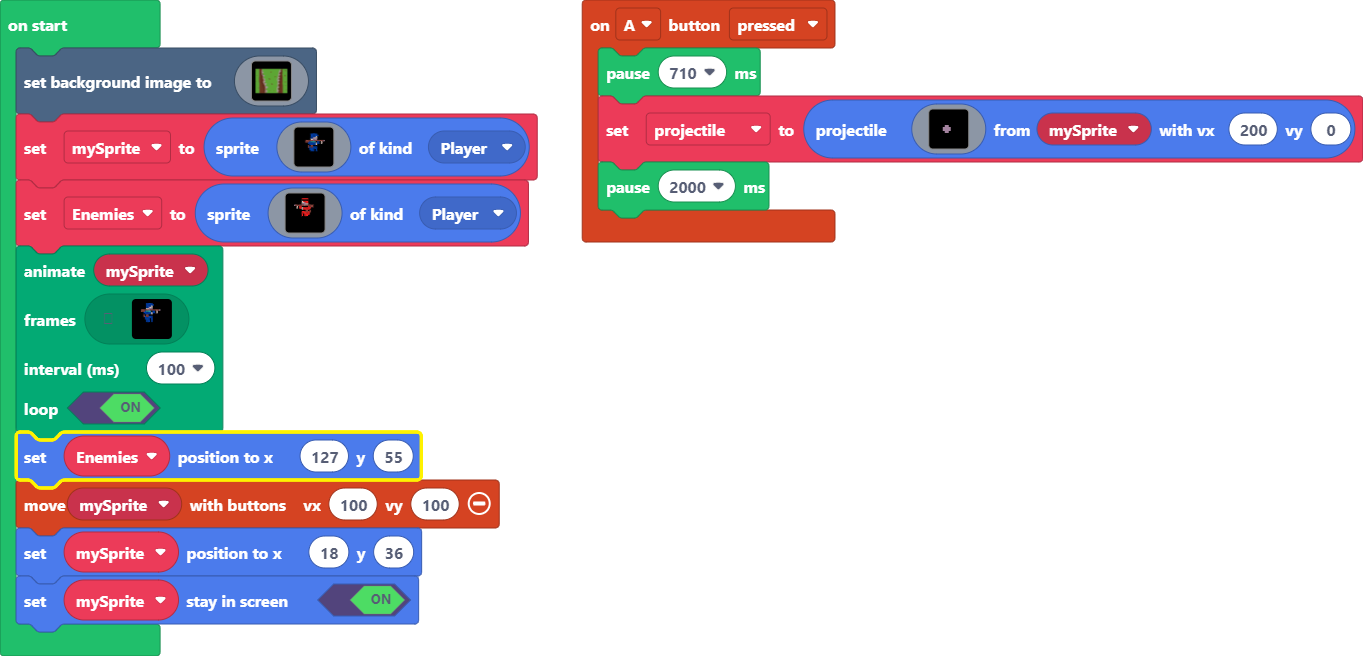
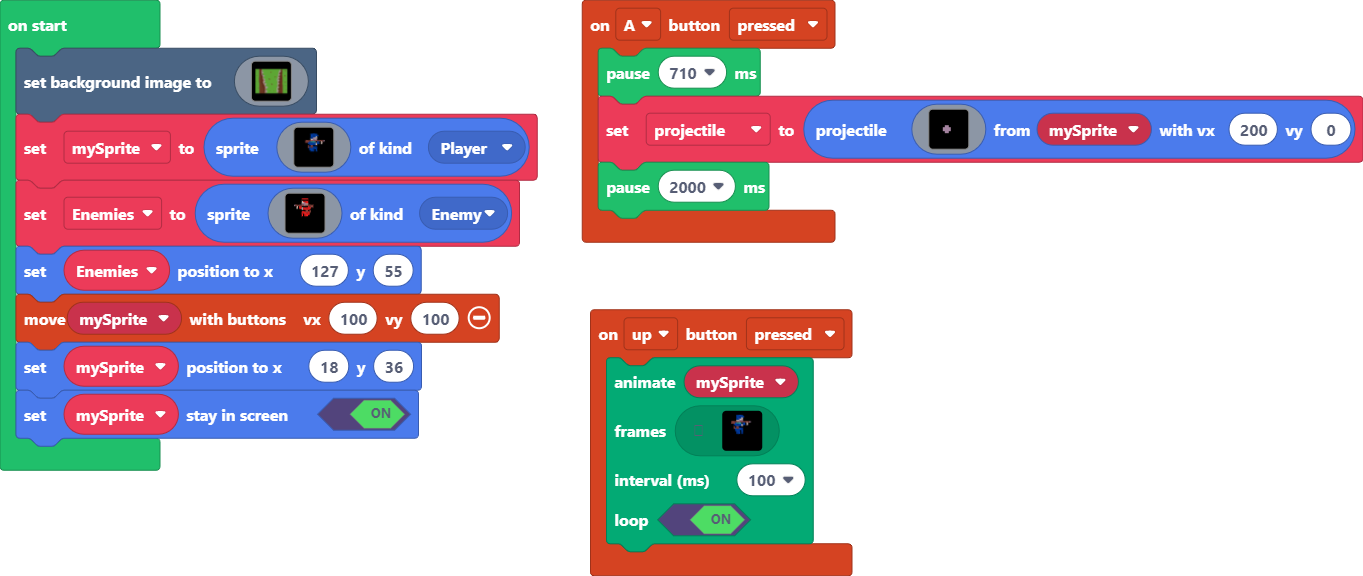
Update main.blocks, main.ts

diff --git a/main.ts b/main.ts
@@ -1,3 +1,37 @@
+controller.up.onEvent(ControllerButtonEvent.Pressed, function () {
+    animation.runImageAnimation(
+    mySprite,
+    [img`
+        ........88888............
+        ........888888...........
+        ........8888d............
+        ........88bdd............
+        ........ddbbb............
+        ....eeeeeebeeeeeeeb......
+        ....eee86666f88fd........
+        ......888888d88fd........
+        .......88888d............
+        ......efeefff............
+        ......e8ee888............
+        .......888888............
+        .......8888f8............
+        .......f888f8............
+        .......f888f8............
+        .......ffffff............
+        .......ffffff............
+        ........ff.ff............
+        .......fff.fff...........
+        .....ffff...fff..........
+        .....fff.....ff..........
+        .....f.......fff.........
+        .........................
+        .........................
+        .........................
+        `],
+    100,
+    true
+    )
+})
 controller.A.onEvent(ControllerButtonEvent.Pressed, function () {
     pause(710)
     projectile = sprites.createProjectileFromSprite(img`
@@ -197,39 +231,7 @@ let Enemies = sprites.create(img`
     .........................
     .........................
     .........................
-    `, SpriteKind.Player)
-animation.runImageAnimation(
-mySprite,
-[img`
-    ........88888............
-    ........888888...........
-    ........8888d............
-    ........88bdd............
-    ........ddbbb............
-    ....eeeeeebeeeeeeeb......
-    ....eee86666f88fd........
-    ......888888d88fd........
-    .......88888d............
-    ......efeefff............
-    ......e8ee888............
-    .......888888............
-    .......8888f8............
-    .......f888f8............
-    .......f888f8............
-    .......ffffff............
-    .......ffffff............
-    ........ff.ff............
-    .......fff.fff...........
-    .....ffff...fff..........
-    .....fff.....ff..........
-    .....f.......fff.........
-    .........................
-    .........................
-    .........................
-    `],
-100,
-true
-)
+    `, SpriteKind.Enemy)
 Enemies.setPosition(127, 55)
 controller.moveSprite(mySprite, 100, 100)
 mySprite.setPosition(18, 36)
